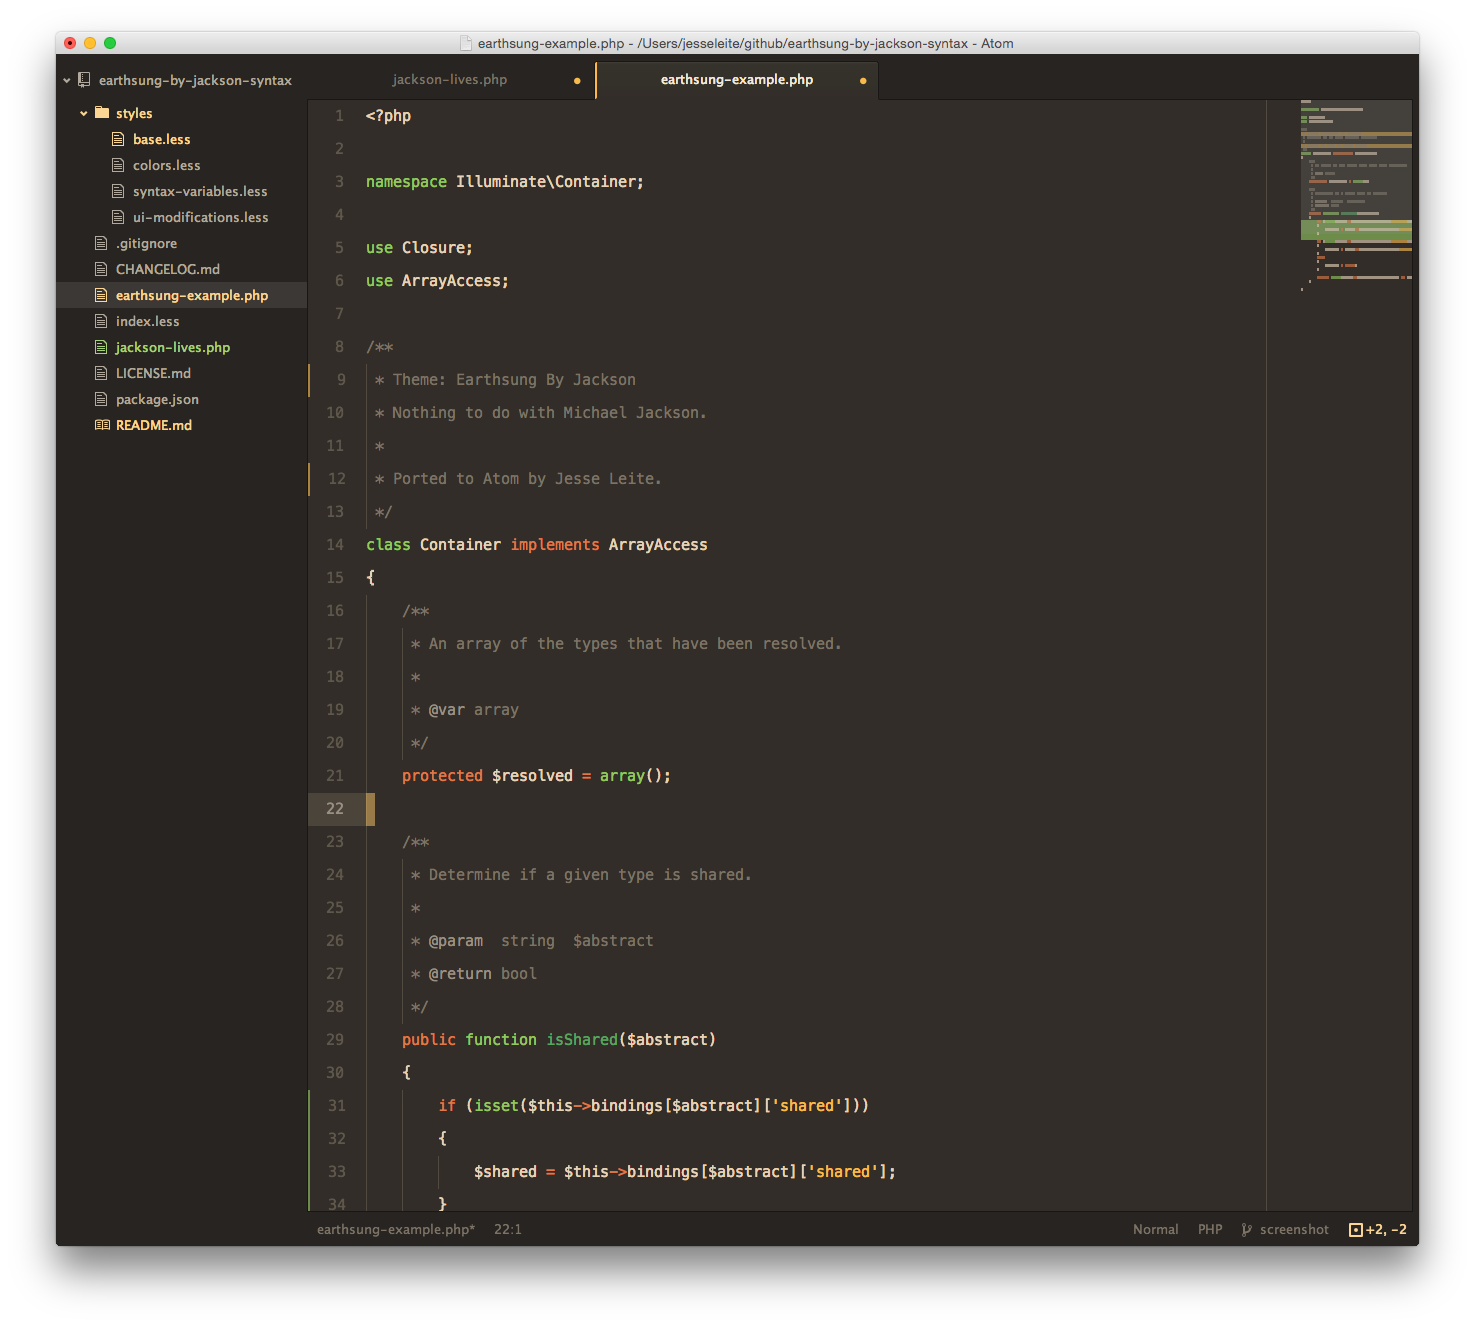
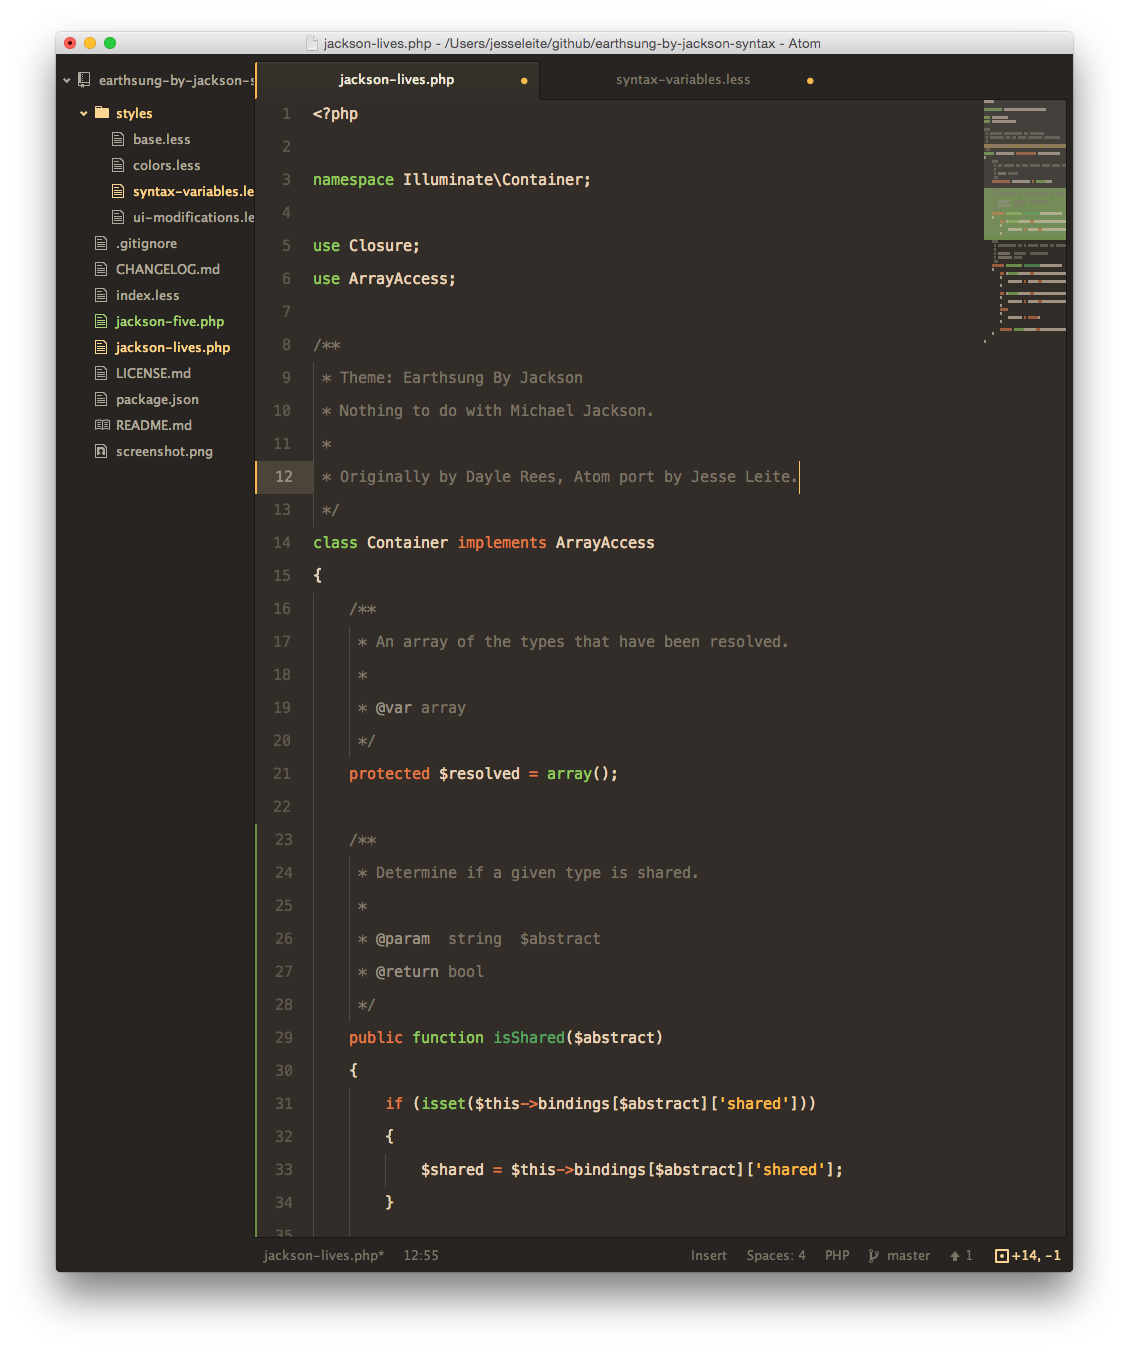
Updating screenshot and code example.

diff --git a/jackson-lives.php b/jackson-lives.php
@@ -9,7 +9,7 @@ use ArrayAccess;
  * Theme: Earthsung By Jackson
  * Nothing to do with Michael Jackson.
  *
- * Ported to Atom by Jesse Leite.
+ * Originally by Dayle Rees, Atom port by Jesse Leite.
  */
 class Container implements ArrayAccess
 {
